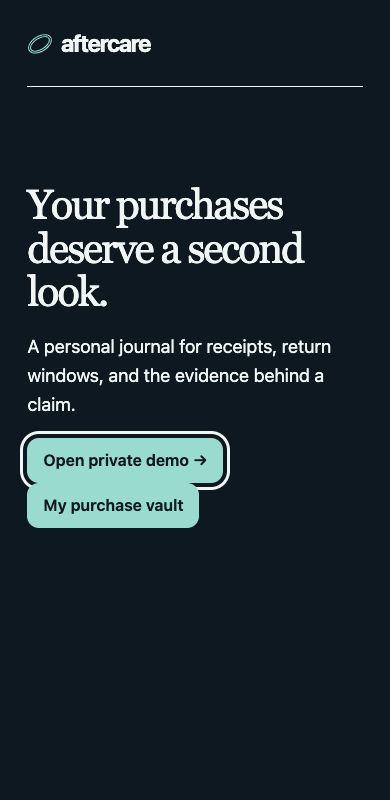
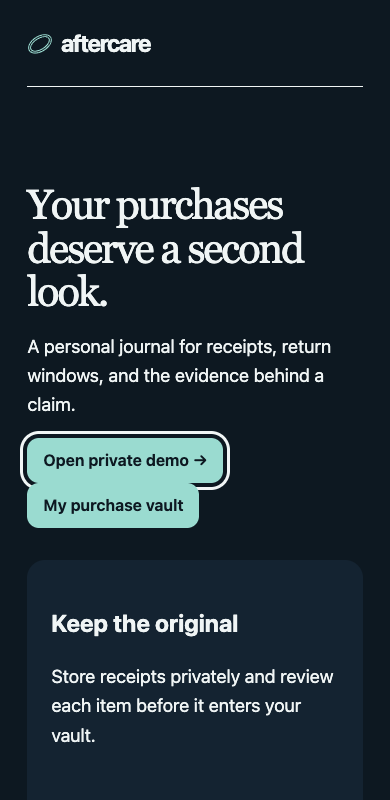
Inventory M4 against the approved blueprint and add resettable product tour

Changed region(s): [[0.1231, 0.75, 0.8615, 0.9375]]

diff --git a/apps/web/app/journal/tour.tsx b/apps/web/app/journal/tour.tsx
@@ -1,0 +1,48 @@
+"use client";
+import { useState } from "react";
+const stages = [
+  [
+    "Check the receipt",
+    "A sample receipt lists a field journal for USD 15.00. Review its merchant, item and purchase date before saving.",
+  ],
+  [
+    "Review the commitment",
+    "In this example the shop promised a refund by November 20. The recorded deadline passed without owner confirmation of receipt.",
+  ],
+  [
+    "Prepare a follow-up",
+    "Review the cited promise and the exact draft. Approval permits a one-time download. The owner decides whether to contact the merchant.",
+  ],
+] as const;
+export default function Tour() {
+  const [index, setIndex] = useState(0);
+  return (
+    <section aria-label="Synthetic product tour">
+      <h2>Sample purchase walkthrough</h2>
+      <p>Synthetic example · Paper shop</p>
+      <output>
+        Step {index + 1} of {stages.length}
+      </output>
+      <h3>{stages[index][0]}</h3>
+      <p>{stages[index][1]}</p>
+      <div className="tour-actions">
+        <button
+          type="button"
+          disabled={index === 0}
+          onClick={() => setIndex(index - 1)}
+        >
+          Previous
+        </button>
+        {index < stages.length - 1 ? (
+          <button type="button" onClick={() => setIndex(index + 1)}>
+            Next step
+          </button>
+        ) : (
+          <button type="button" onClick={() => setIndex(0)}>
+            Restart tour
+          </button>
+        )}
+      </div>
+    </section>
+  );
+}

diff --git a/apps/web/app/page.tsx b/apps/web/app/page.tsx
@@ -11,6 +11,32 @@ export default function Landing() {
         Open private demo →
       </Link>
       <Link href="/vault">My purchase vault</Link>
+      <section
+        className="landing-benefits"
+        aria-label="How Aftercare protects purchases"
+      >
+        <article>
+          <h2>Keep the original</h2>
+          <p>
+            Store receipts privately and review each item before it enters your
+            vault.
+          </p>
+        </article>
+        <article>
+          <h2>Check the window</h2>
+          <p>
+            Track a return or warranty deadline alongside the policy source that
+            supports it.
+          </p>
+        </article>
+        <article>
+          <h2>Follow the refund</h2>
+          <p>
+            Record what the shop promised and approve the exact follow-up you
+            want to download.
+          </p>
+        </article>
+      </section>
     </>
   );
 }

diff --git a/packages/ui/tokens.css b/packages/ui/tokens.css
@@ -407,3 +407,21 @@ section {
     grid-column: 1 / -1;
   }
 }
+.landing-benefits {
+  display: grid;
+  gap: 1.5rem;
+  grid-template-columns: repeat(auto-fit, minmax(min(100%, 14rem), 1fr));
+}
+.tour-actions {
+  display: flex;
+  gap: 1rem;
+}
+.tour-actions button {
+  font: inherit;
+  min-height: 44px;
+  padding: 0.5rem 1rem;
+  background: var(--canvas);
+  color: var(--ink);
+  border: 1px solid var(--accent);
+  border-radius: 12px;
+}

diff --git a/apps/web/app/journal/page.tsx b/apps/web/app/journal/page.tsx
@@ -1,3 +1,4 @@
+import Tour from "./tour";
 import { headers } from "next/headers";
 import { overview } from "@aftercare/contracts";
 import Link from "next/link";
@@ -23,6 +24,7 @@ export default async function Journal() {
   return (
     <>
       <h1>{data.title}</h1>
+      <Tour />
       <section>
         <h2>Agent activity</h2>
         <p>No checks recorded. Monitoring is awaiting service verification.</p>

diff --git a/docs/evidence/M4.md b/docs/evidence/M4.md
@@ -15,3 +15,25 @@ Deletion requires the session owner, same-origin POST, matching account email, c
 Settings identify export contents as JSON records and references; the payload marks attachmentsIncluded false. The privacy screen handles signed-out, unavailable, retry and success states. Case and approval screens recover current, unexpired, unconsumed approval IDs from the authenticated API after navigation. The recovery actions retain version/hash checks and one-time consumption.
 
 Verification used disposable databases and files. Failure injection proved transaction rollback. Tests verified owner isolation, session revocation, post-reopen cleanup retry and preservation of another owner's file. Biome formatting/lint checked 56 files, typecheck and production build passed, 24 application tests passed, and 3 targeted Chrome tests passed in 6.3 seconds (privacy export/deletion, mobile onboarding and multi-item corrections, approval/download/activity). No owner walkthrough or hosted job ran. Final comprehensive visual/accessibility review remains deferred. All M0-B gates remain open. Expenditure $0.
+
+## Requirements inventory against the 13-screen blueprint
+
+| Surface | Implemented | Outstanding implementation or evidence |
+|---|---|---|
+| Landing | Editorial hero, three concrete benefits, private demo and vault entry | Final visual acceptance |
+| Onboarding | Regional settings, optional consent, sample guidance, exit/restart and receipt/manual entry | Final integrated accessibility review |
+| Overview | Purchase/case counts, attention and upcoming checks | Currency-separated potential exposure, latest activity, last-check status |
+| Vault | Merchant monograms, compact/cards, merchant/date/text filters | Risk/protection filters and multi-receipt import |
+| Purchase detail | Items, order, notes, edits and authenticated receipt references | Unified protection timeline and direct case handoff |
+| Import studio | Private upload, source preview, editable fields, persisted revisions, manual confirmation | Field-specific uncertainty presentation and missing-field guidance |
+| Protection | Six evidence kinds, citations, timestamps, grouped urgency, adapter gates | Dedicated recall/price views |
+| Recovery cases | Evidence, draft, follow-up and activity | Case-level chronological history, corrections and exposure |
+| Composer and approval | Recipient/body/version preview, explicit approval/revocation, single-use export | Selectable evidence attachments and redaction preview bound to approval |
+| Agent activity | Persisted checks, retries, next run, pause and reminders | Per-check source and rationale drill-down |
+| Refund/claim tracking | Commitments and owner-reported receipt, export and follow-up | Explicit awaiting-owner/merchant and resolved transitions |
+| Settings | Preferences, consent, reminders, export, deletion and processor status | Complete budget/status presentation |
+| Product tour | Resettable, synthetic three-step example in the private journal | Final integrated accessibility review |
+
+Cross-screen: responsive rail/bar/bottom navigation, active page, skip link, system themes and focus styles exist. Universal search, notification center and complete screen-level state and breakpoint evidence remain outstanding. M4 stays open. M5 sequencing remains pending these implementation items.
+
+This increment ran Biome format and lint on 57 files, typecheck, production build, and the 390px private-journal Playwright regression (1 passed in 3.6 seconds). No owner testing, hosted CI, provisioning or provider calls occurred.
